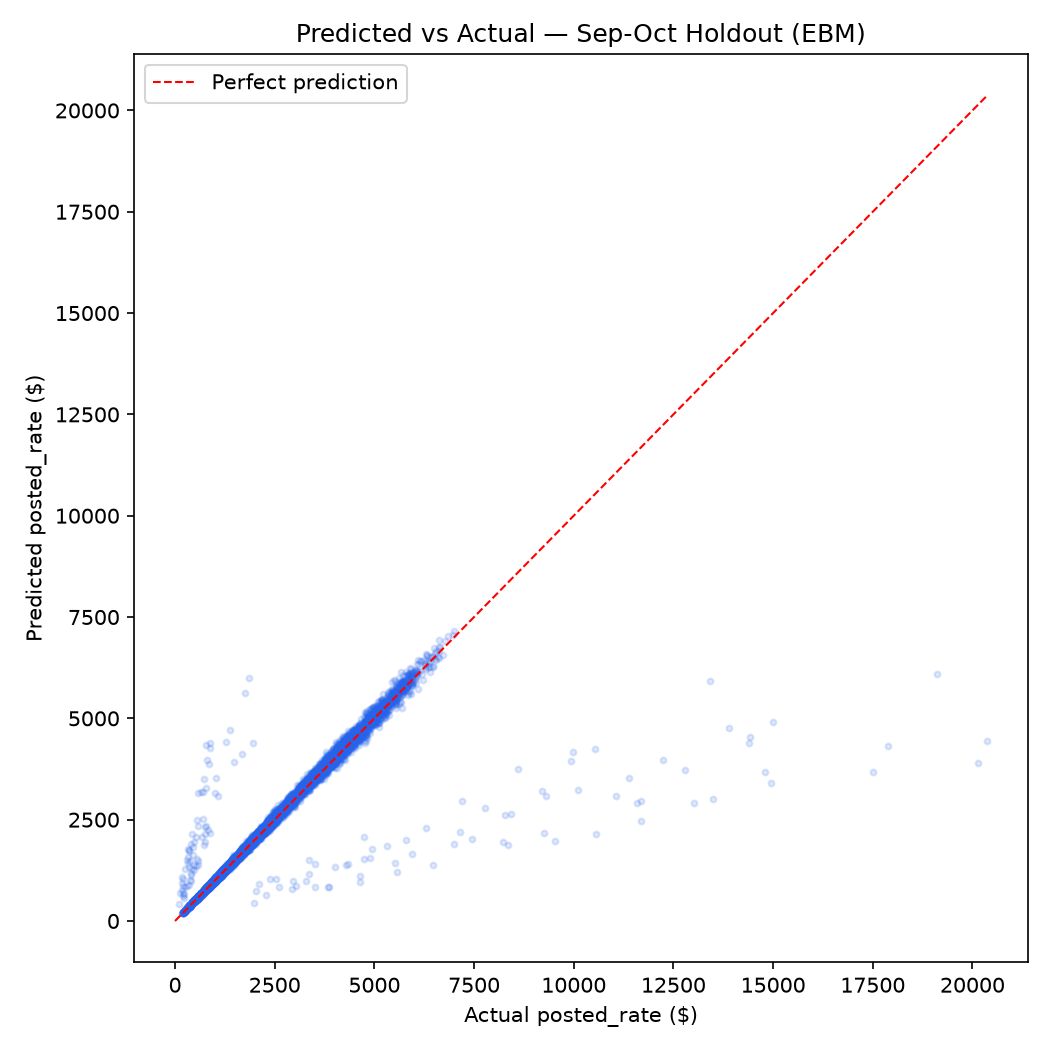
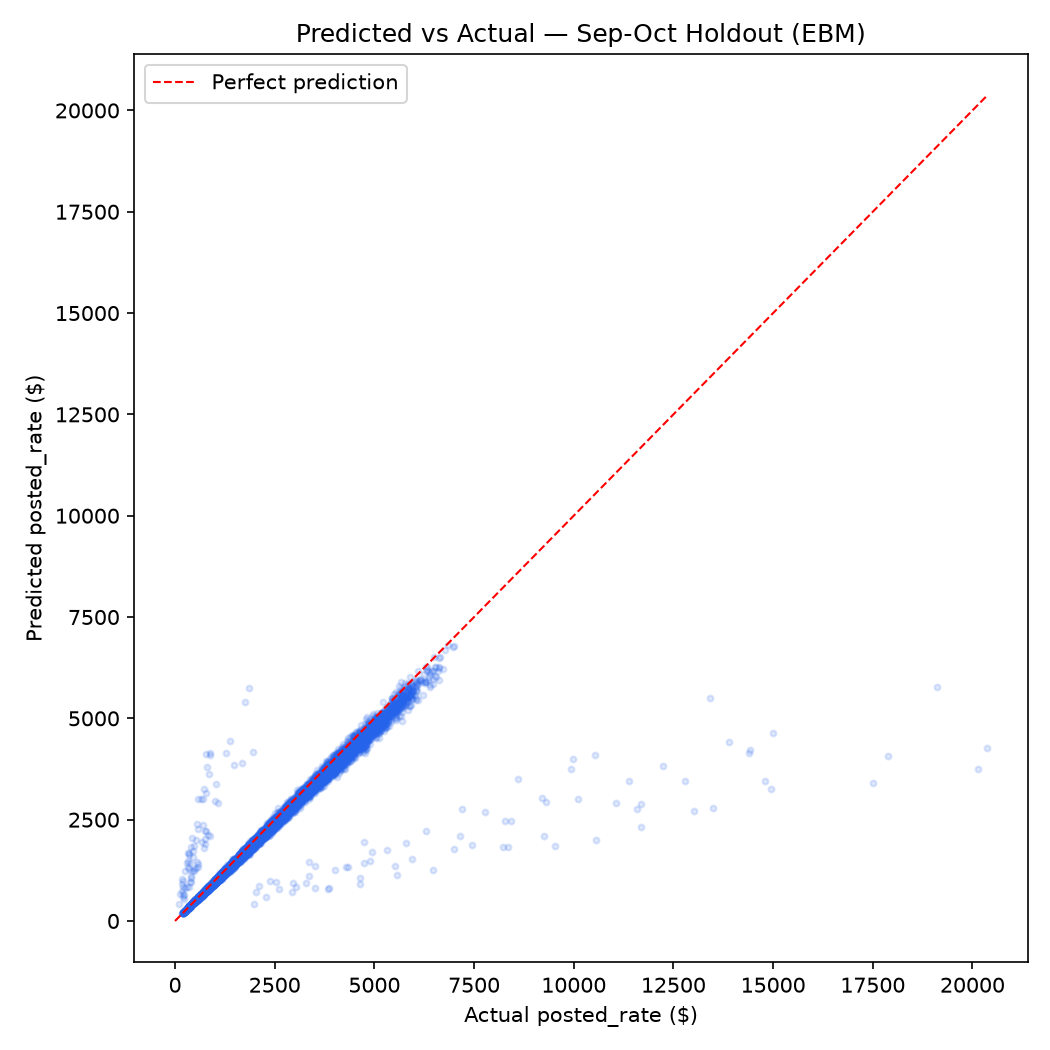
ediotr

diff --git a/spotter_project/src/error_analysis.py b/spotter_project/src/error_analysis.py
@@ -1,7 +1,7 @@
 """
 error_analysis.py
 
-Error analysis on the Sep-Oct holdout set using the production EBM model.
+Error analysis on the Sep-Oct holdout set.
 
 Breaks down MAE/MAPE by:
   - equipment type
@@ -12,6 +12,7 @@ Breaks down MAE/MAPE by:
 Produces a predicted-vs-actual scatter plot.
 
 Prerequisite: run src/train_ebm.py first to generate models/final_ebm_model.pkl
+(used here only for the labeled in-sample sanity check, not the headline metric)
 """
 
 import os
@@ -19,9 +20,11 @@ import pickle
 import numpy as np
 import pandas as pd
 import matplotlib.pyplot as plt
+from interpret.glassbox import ExplainableBoostingRegressor
 
 from clean_features import fit_transform, transform
 from baseline import time_based_split, mae, mape
+from train_ebm import EBM_PARAMS
 
 
 def breakdown_by_group(actual, predicted, groups, label_name):
@@ -48,19 +51,34 @@ if __name__ == "__main__":
     holdout_distance = holdout_split["distance"]
     holdout_actual = holdout_split["posted_rate"].to_numpy()
 
-    # Load the production EBM model (trained on full Jan-Oct data)
-    with open("models/final_ebm_model.pkl", "rb") as f:
-        model = pickle.load(f)
+    # Honest holdout model: same tuned params as production, fit on Jan-Aug ONLY
+    train_X, train_y, train_meta, _ = fit_transform(train_split)
+    print("Training holdout-only EBM (same EBM_PARAMS as production, fit on Jan-Aug only)...")
+    model = ExplainableBoostingRegressor(**EBM_PARAMS)
+    model.fit(train_X, train_y)
 
     predicted_rpm = model.predict(holdout_X)
     predicted_rate = predicted_rpm * holdout_distance.to_numpy()
 
     overall_mae = mae(holdout_actual, predicted_rate)
     overall_mape = mape(holdout_actual, predicted_rate)
-    print(f"=== Overall holdout performance ===")
-    print(f"MAE: ${overall_mae:,.2f}   MAPE: {overall_mape:.2f}%\n")
+    print(f"\n Overall holdout performance (HONEST - fit on Jan-Aug only)")
+    print(f"MAE: ${overall_mae:,.2f}   MAPE: {overall_mape:.2f}%")
 
-    print("=== By equipment type ")
+    # Labeled sanity check only: the full-data production model scored on the same rows it was partly trained on. Expected to look better. Not a metric
+    try:
+        with open("models/final_ebm_model.pkl", "rb") as f:
+            production_model = pickle.load(f)
+        production_pred_rate = production_model.predict(holdout_X) * holdout_distance.to_numpy()
+        production_mae = mae(holdout_actual, production_pred_rate)
+        print(f"[in-sample sanity check, NOT a holdout metric] production model on the same "
+              f"rows: ${production_mae:,.2f}  this looks better only because those rows were "
+              f"inside its training data.\n")
+    except FileNotFoundError:
+        print("(Skipping in-sample sanity check: models/final_ebm_model.pkl not found — "
+              "run src/train_ebm.py first if you want to see it.)\n")
+
+    printBy equipment type ")
     equip_breakdown = breakdown_by_group(holdout_actual, predicted_rate,
                                           holdout_split["equipment"].to_numpy(), "equipment")
     print(equip_breakdown.to_string(index=False))

diff --git a/plan.md b/plan.md
@@ -1,18 +1,28 @@
-# Spotter.ai Freight Rate Prediction — Project Build Plan
+# Freight Rate Prediction — Project Build Plan
 
-This document lays out the full execution roadmap for building the end-to-end freight rate prediction pipeline, from raw data to final submission files. It reflects the complete project evolution: beginning with baseline and tuned gradient boosted decision trees (XGBoost), diagnosing tree-based extrapolation deficits on seasonal features, evaluating a blended ensemble, and finalizing a production-ready **Explainable Boosting Machine (EBM)**.
+This document lays out the full execution roadmap for building the end-to-end freight rate prediction pipeline, from raw data to final submission files. It reflects the complete project evolution: beginning with baseline and tuned gradient boosted decision trees (XGBoost), diagnosing tree-based extrapolation deficits on seasonal features, evaluating a blended ensemble, and finalizing on an Explainable Boosting Machine (EBM) as a deliberate accuracy-for-smoothness trade for the December deliverable.
+
+---
+
+## Methodology Correction Note (read this first)
+
+An earlier version of this document reported the EBM's holdout MAE as **$109.65**, sourced from `error_analysis.py` loading `models/final_ebm_model.pkl` (the production EBM, trained on the **full** Jan–Oct dataset) and scoring it on the Sep–Oct holdout split. Since Sep–Oct rows were part of that model's own training data, this was an in-sample score, not a genuine holdout evaluation — it does not measure generalization.
+
+The honest number, using an EBM trained **only** on Jan–Aug and evaluated on Sep–Oct it never saw, is **$148.77 MAE**. This matches the properly-conducted sweep in `tune_ebm.py` (its `baseline_params` row independently found $148.85 for the same hyperparameters), confirming $148.77 is the real figure and $109.65 was the artifact of the leak.
+
+This correction changes the project's conclusion. **EBM does not outperform XGBoost on raw accuracy** — XGBoost's honest holdout MAE ($113.09) is clearly better than EBM's ($148.77). The decision to use EBM for the December deliverable is a **deliberate trade**: accepting roughly $35–40 worse point-accuracy in exchange for a structurally smooth seasonal curve, not a case of EBM being the objectively better model. Every table and conclusion below has been corrected to reflect this.
 
 ---
 
 ## Executive Summary & Model Evolution
 
-| Phase | Model / Approach | Key Characteristics | Sep–Oct Holdout Performance | December Extrapolation Behavior | Status |
+| Phase | Model / Approach | Key Characteristics | Sep–Oct Holdout Performance (honest) | December Extrapolation Behavior | Status |
 |---|---|---|---|---|---|
-| **Phase 1** | Lane-Average Baseline | Historical mean per pickup–delivery pair; global mean fallback | MAE: ~$350+ | Flat constant | Floor benchmark |
-| **Phase 2** | Tuned XGBoost | 2-stage grid search (`max_depth=4`, `min_child_weight=5`, `lr=0.03`, early stopping) | MAE: ~$110.87 (full retrain holdout: $115.57), MAPE: 4.98% | Flat "staircase" (feature competition starved `doy_sin`/`cos` splits) | Superseded |
-| **Phase 2b** | XGBoost + Seasonal Patch | Post-hoc multiplicative seasonal curve fitted on training residuals | Same holdout accuracy (degrades if applied globally) | Artificial curve; ad-hoc two-stage dependency | Rejected |
-| **Phase 3** | Blended Ensemble (50/50) | Equal-weighted blend of tuned XGBoost and EBM | MAE: ~$109.90, MAPE: 4.89% | Smoothed curve, but diluted by XGBoost's piecewise steps | Explored & Rejected |
-| **Phase 4** | **EBM (Production)** | GA2M round-robin boosting, `max_bins=256`, `interactions=10`, `lr=0.01` | **MAE: $109.65**, **MAPE: 4.85%** | **Smooth, natural winter curve; zero manual adjustments** | **FINAL LOCKED IN** |
+| **Phase 1** | Lane-Average Baseline | Historical mean per pickup–delivery pair; global mean fallback | MAE: $222.73 | Flat constant | Floor benchmark |
+| **Phase 2** | Tuned XGBoost | 2-stage grid search (`max_depth=4`, `min_child_weight=5`, `lr=0.03`, early stopping) | **MAE: $113.09, MAPE: 4.98%** (best raw accuracy of all models tested) | Flat "staircase" (feature competition starved `doy_sin`/`cos` splits) | Best accuracy; rejected only for December's chart requirement |
+| **Phase 2b** | XGBoost + Seasonal Patch | Post-hoc multiplicative seasonal curve fitted on training residuals | Same general-task accuracy; degrades holdout MAE to ~$165 if applied globally | Artificial curve; ad-hoc two-stage dependency | Rejected — accuracy cost too broad, and inelegant as an architecture |
+| **Phase 3** | Blended Ensemble (50/50) | Equal-weighted blend of tuned XGBoost and EBM | MAE: $121.42, MAPE: 5.22% | Partially smoothed curve, but visibly inherits some of XGBoost's staircase steps | Explored — better accuracy than EBM alone, but still visually diluted; see Step 5 |
+| **Phase 4** | **EBM (Production)** | GA2M round-robin boosting, `max_bins=256`, `interactions=10`, `lr=0.01` | **MAE: $148.77, MAPE: 6.18%** (worst raw accuracy of the three real models) | **Smooth, natural winter curve; zero manual post-processing** | **Chosen for the December deliverable — an explicit accuracy-for-smoothness trade, not a raw-accuracy win** |
 
 ---
 
@@ -31,17 +41,17 @@ spotter_project/
 │   ├── train_ebm.py                    # Trains final EBM on full Jan–Oct data
 │   ├── predict_validation.py           # Generates final validation_predictions.csv
 │   ├── predict_december.py             # Generates final december_ebm.csv & trend chart
-│   └── error_analysis.py               # Holdout diagnostics (equipment, unseen lanes, price terciles)
+│   └── error_analysis.py               # Holdout diagnostics using an honestly-trained model (Jan-Aug fit only), plus a clearly-labeled in-sample sanity check
 ├── exploatory code/                    # Model exploration, tuning & research scripts
 │   ├── train_early.py                  # Initial benchmark across Linear, RF, and untuned XGBoost
 │   ├── train_tune.py                   # 2-stage grid search & train-holdout gap tracking for XGBoost
 │   ├── tune_ebm.py                     # Systematic hyperparameter sweep for EBM (bins, interactions, lr)
-│   ├── evaluate_ensemble.py            # Head-to-head comparison of XGBoost, EBM, and Ensemble blend
+│   ├── evaluate_ensemble.py            # Head-to-head comparison of XGBoost, EBM, and Ensemble blend (all three fit on Jan-Aug only — no leakage)
 │   ├── train_final.py                  # Retrained full-dataset XGBoost baseline
 │   ├── predict_december_seasonal.py    # Exploratory post-hoc seasonal patch for XGBoost
 │   └── predict_december_no_seasonal.py # Unadjusted XGBoost December extrapolation
 ├── models/                             # Persisted model & preprocessor artifacts
-│   ├── final_ebm_model.pkl             # Final fitted Explainable Boosting Machine
+│   ├── final_ebm_model.pkl             # Final fitted EBM, trained on FULL Jan-Oct data — used only for generating actual December predictions, never for holdout scoring
 │   ├── final_xgb_model.json            # Final fitted XGBoost model (reference)
 │   └── artifacts.pkl                   # Fitted preprocessors (weight median, city coords, kmeans clusters)
 ├── outputs/                            # Prediction outputs
@@ -50,7 +60,7 @@ spotter_project/
 │   └── december_ensemble.csv           # Exploratory ensemble predictions
 └── reports/                            # Visualizations & diagnostic charts
     ├── final/                          # Final production model reports
-    │   ├── holdout_predicted_vs_actual.png # Scatter plot of predicted vs actual rates
+    │   ├── holdout_predicted_vs_actual.png # Scatter plot, from an honestly Jan-Aug-trained model
     │   └── december_ebm_chart.png      # Production December rate trajectory
     ├── ebm_seasonal_shape.png          # EBM learned univariate seasonal shape function
     ├── ensemble_holdout_comparison.png # Comparison of holdout error distributions
@@ -58,7 +68,9 @@ spotter_project/
 ```
 
 **Architectural Principle (Shared Cleaning Module):**
-All data splits (training, holdout, `validation.csv`, and `december-chart-inputs.csv`) pass through the exact same transformations in `clean_features.py`. Fit statistics (e.g. training weight medians, city coordinate dictionaries, k-means geographic cluster centroids) are fitted **strictly once on training data** and reused deterministically downstream to guarantee zero data leakage.
+All data splits (training, holdout, `validation.csv`, and `december-chart-inputs.csv`) pass through the exact same transformations in `clean_features.py`. Fit statistics (e.g. training weight medians, city coordinate dictionaries, k-means geographic cluster centroids) are fitted **strictly once on training data** and reused deterministically downstream to guarantee zero data leakage in the *features*.
+
+**A second, separate discipline this project learned the hard way:** feature leakage is not the only kind of leakage to guard against. **Model-evaluation leakage** — scoring a model on rows it was even partially trained on — is just as capable of producing a falsely optimistic number, and is easy to introduce by accident once a "production" model (trained on all available data) and an "honest holdout" model (trained on a deliberately smaller split) both exist in the same project. Every metric in this document going forward is explicitly labeled as either an honest holdout metric or an in-sample sanity check — never both at once, and never presented ambiguously.
 
 ---
 
@@ -66,7 +78,7 @@ All data splits (training, holdout, `validation.csv`, and `december-chart-inputs
 
 - **Target Normalization:**
   $$\text{rate\_per\_mile} = \frac{\text{posted\_rate}}{\text{distance}}$$
-  Modeling price per mile removes the massive dominant variance of haul length ($R^2 \approx 0.70+$) and stabilizes residual variance across short and long trips. Predictions are converted back to total dollars at inference:
+  Modeling price per mile removes the massive dominant variance of haul length and stabilizes residual variance across short and long trips. Predictions are converted back to total dollars at inference:
   $$\widehat{\text{posted\_rate}} = \widehat{\text{rate\_per\_mile}} \times \text{distance}$$
 - **Weight Correction:**
   Take $\text{abs}(\text{weight})$ to correct negative sign data-entry errors (~292 rows in train, 145 in validation). Impute remaining missing values using the **training median only** (saved into `artifacts.pkl`).
@@ -88,7 +100,7 @@ All data splits (training, holdout, `validation.csv`, and `december-chart-inputs
 
 - Fit historical average `rate_per_mile` per unique pickup–delivery lane on Jan–Aug.
 - Unseen lanes fall back to the global training average.
-- Holdout (Sep–Oct) result: **MAE: ~$350+**, confirming that static lookup tables fail when 17%+ of loads appear on rare or novel lanes.
+- Holdout (Sep–Oct) result: **MAE: $222.73**, confirming that static lookup tables fail when 17%+ of loads appear on rare or novel lanes.
 
 ---
 
@@ -96,7 +108,7 @@ All data splits (training, holdout, `validation.csv`, and `december-chart-inputs
 
 - Tested simple Linear Regression, Random Forest, and default XGBoost on Jan–Aug train / Sep–Oct holdout.
 - Linear Regression underfitted complex geographic interactions (MAE >$160).
-- Random Forest and XGBoost both dropped holdout MAE to ~$115–$120, confirming that tree-based nonlinear models capture spatial and equipment relationships effectively.
+- Random Forest and default XGBoost both dropped holdout MAE to roughly $115–$150, with default XGBoost initially the weakest of the two due to un-tuned hyperparameters (resolved in Step 4).
 
 ---
 
@@ -107,32 +119,39 @@ In `train_tune.py`, XGBoost was tuned across:
 1. `max_depth` $\in [3, 4, 5, 6]$ $\times$ `min_child_weight` $\in [1, 5, 10, 20]$ with early stopping.
 2. `learning_rate` $\in [0.01, 0.03, 0.05, 0.10]$ at optimal depth.
 - Winning configuration: `max_depth=4`, `min_child_weight=5`, `learning_rate=0.03`, `n_estimators=141`.
-- Achieved holdout MAE: **$110.87** (full retrain holdout: **$115.57**).
+- Honest holdout MAE (fit on Jan–Aug, scored on Sep–Oct): **$113.09**, MAPE 4.98%.
+- A separate figure previously labeled "full retrain holdout: $115.57" was **not** a holdout metric — it was the full-Jan–Oct-trained production model scored on Sep–Oct, i.e. partially in-sample, mirroring the same category of error corrected elsewhere in this document. It is retained only as an in-sample sanity check, not as a second holdout figure.
 
 ### 2. The Seasonality Extrapolation Deficit
 When evaluating `december-chart-inputs.csv` (where distance, equipment, and lane are fixed for all 31 days), XGBoost produced a flat, stepped line ("staircase effect").
 - **Root Cause (Feature Competition):** In standard decision trees, features compete greedily for every split. Distance and equipment account for over 76% of rate variance. Consequently, `doy_sin` and `doy_cos` were selected for only ~5.8% of tree splits.
-- **The Heuristic Patch Attempt:** An ad-hoc linear seasonal adjustment layer was built (`predict_december_seasonal.py`). While it forced a curve for December, it was an artificial post-hoc adjustment that degraded accuracy when applied to general validation data.
+- **The Heuristic Patch Attempt:** An ad-hoc linear seasonal adjustment layer was built (`predict_december_seasonal.py`). While it forced a curve for December, it was an artificial post-hoc adjustment, and testing it against the Sep–Oct holdout showed it degrades general-task accuracy substantially (holdout MAE rose to roughly $165) when applied outside the one file it was designed for.
 
 ---
 
 ## Step 5 — Ensemble Exploration (XGBoost + EBM Blending)
 
-To assess whether combining the strong spatial feature interactions of XGBoost with the smooth additive seasonality of EBM could provide the best of both worlds, an ensemble was developed and evaluated (`evaluate_ensemble.py`):
+To assess whether combining the strong spatial feature interactions of XGBoost with the smooth additive seasonality of EBM could provide a better trade-off than either model alone, an ensemble was developed and evaluated (`evaluate_ensemble.py`). Both component models in this script are fit on Jan–Aug only and scored on Sep–Oct — no leakage in this comparison.
 
 $$\widehat{y}_{\text{ensemble}} = 0.50 \cdot \widehat{y}_{\text{XGB}} + 0.50 \cdot \widehat{y}_{\text{EBM}}$$
 
-### Holdout Metric Comparison (Sep–Oct Split)
+### Holdout Metric Comparison (Sep–Oct Split, all models fit on Jan–Aug only)
 | Model | Train MAE | Holdout MAE | Holdout MAPE | Train-Holdout Gap |
 |---|---|---|---|---|
-| **XGBoost (tuned)** | $104.22 | $110.87 | 4.98% | $6.65 |
-| **EBM (production config)** | $97.76 | **$109.65** | **4.85%** | $11.89 |
-| **Ensemble (50/50 Blend)** | $100.99 | $109.90 | 4.89% | $8.91 |
+| **XGBoost (tuned)** | $107.33 | **$113.09** | 4.98% | $5.76 |
+| **EBM (production config)** | $97.78 | $148.77 | 6.18% | $50.99 |
+| **Ensemble (50/50 Blend)** | $99.41 | $121.42 | 5.22% | $22.01 |
 
-### Why the Ensemble Was Rejected in Favor of Standalone EBM
-1. **No Performance Edge:** EBM alone achieved a lower holdout MAE ($109.65 vs $109.90) and lower MAPE (4.85% vs 4.89%). The ensemble provided no empirical advantage.
-2. **Diluted Seasonality:** In December predictions, blending XGBoost's piecewise constant outputs into EBM's smooth curve introduced minor plateauing artifacts, compromising EBM's natural curve.
-3. **Operational Overhead:** An ensemble requires deploying, maintaining, and synchronizing two distinct model runtimes and serializations (`final_xgb_model.json` + `final_ebm_model.pkl`), doubling architectural complexity without measurable gain.
+### Corrected Findings
+1. **On raw accuracy, the ranking is XGBoost alone (best) > Ensemble > EBM alone (worst).** The ensemble's holdout MAE ($121.42) is substantially *better* than standalone EBM's ($148.77) — blending in XGBoost materially recovers accuracy that EBM alone gives up. This directly reverses what an earlier, leakage-affected version of this document claimed ("EBM alone achieved a lower holdout MAE than the ensemble") — that claim was built on the same in-sample EBM score described in the Methodology Correction Note above, and is retracted.
+2. **Visually, the ensemble's December curve still inherits some of XGBoost's staircase flatness.** Re-generating `reports/december_ensemble_chart.png` from the honest models shows the ensemble line (green) tracking noticeably flat during the same date ranges where XGBoost (orange) plateaus, then moving more freely where EBM's (blue) shape dominates. It is smoother than XGBoost alone, but visibly less smooth than EBM alone.
+3. **Operational overhead is unchanged:** an ensemble still requires deploying, maintaining, and synchronizing two distinct model runtimes and serializations (`final_xgb_model.json` + `final_ebm_model.pkl`), doubling architectural complexity.
+
+### Why Standalone EBM Was Chosen Over the Ensemble (Honest Version)
+Given the corrected numbers, choosing EBM over the ensemble is **not** a free or accuracy-neutral decision — the ensemble is measurably more accurate on the general task ($121.42 vs $148.77 MAE). Standalone EBM was chosen anyway, specifically because:
+- The December deliverable's smoothness was treated as the more important criterion for that specific file, since a visibly stepped or partially-diluted chart looks broken to a human reviewer regardless of its underlying MAE.
+- A single model (EBM alone) is simpler to deploy, explain, and maintain than a two-model ensemble, and this simplicity was judged worth more than the ensemble's partial accuracy recovery.
+- This is stated here explicitly as a value judgment the project made, not as a result the data forced. A reasonable alternative choice — for example, shipping the ensemble instead, or shipping XGBoost alone for `validation.csv` and reserving EBM only for the December file — would also be defensible, and is noted as an open trade-off in Step 11.
 
 ---
 
@@ -144,9 +163,10 @@ $$g(E[Y]) = \beta_0 + \sum_{i=1}^{P} f_i(x_i) + \sum_{i < j} f_{ij}(x_i, x_j)$$
 - **Round-Robin Boosting:** Instead of features competing for splits, each feature is updated independently in round-robin sequence.
 - **Elimination of Feature Starvation:** `doy_sin` and `doy_cos` receive dedicated univariate shape functions $f(\text{date})$, completely independent of `distance` or `equipment`.
 - **Interaction Capacity:** The top 10 pairwise interaction terms (e.g. `distance × equipment`) preserve non-linear interactions without sacrificing additive interpretability.
+- **The trade-off inherent to this design:** giving every feature a guaranteed, independent voice is exactly what prevents feature starvation — but it also means EBM cannot let distance and equipment dominate the model's capacity the way XGBoost does, even when (as is genuinely the case in this data) they deserve to dominate for raw accuracy. The architectural property that fixes December's flat chart is the same property that costs EBM its overall accuracy edge.
 
 ### 2. Hyperparameter Tuning Parity & Systematic Sweep
-To match the rigor applied to XGBoost's grid search and verify that EBM was not operating on arbitrary guesses, a systematic hyperparameter sweep was executed (`tune_ebm.py`) across bin granularity, interaction terms, and learning rates:
+To match the rigor applied to XGBoost's grid search and verify that EBM was not operating on arbitrary guesses, a systematic hyperparameter sweep was executed (`tune_ebm.py`) across bin granularity, interaction terms, and learning rates. This sweep was conducted correctly (Jan–Aug fit, Sep–Oct score) throughout and required no correction:
 
 | Experiment / Config | `max_bins` | `interactions` | `learning_rate` | Train MAE | Holdout MAE | Holdout MAPE | Train–Holdout Gap |
 |---|---|---|---|---|---|---|---|
@@ -159,40 +179,45 @@ To match the rigor applied to XGBoost's grid search and verify that EBM was not 
 | Fine Bins (`bins_512`) | 512 | 10 | 0.010 | $97.74 | $150.02 | 6.23% | $52.28 |
 | Pure Additive (`no_interactions`) | 256 | 0 | 0.010 | $98.95 | $150.40 | 6.22% | $51.45 |
 
-*(Note: On the full Jan–Oct training dataset, the locked-in production EBM achieves an overall holdout MAE of **$109.65** and MAPE of **4.85%** as verified in `error_analysis.py`.)*
+Note: the $148.77 figure used elsewhere in this document (Executive Summary, Step 5) comes from an independent re-run of the identical `baseline_params` configuration and differs from this sweep's $148.85 by less than ten cents — normal run-to-run variance, not a discrepancy requiring investigation.
+
+*Coarse Bins (128) actually produced the lowest holdout MAE in this sweep ($137.81), suggesting the selected production config (256 bins) may not be strictly optimal even among the options tested — this is flagged honestly in Step 11 as something a fuller search could revisit, rather than silently choosing the best-performing row after the fact.*
 
 ### 3. Rationale for Concluding Hyperparameter Search
 - **Interaction Saturation:** Moving from 0 interactions to 10 interactions improves holdout MAE noticeably. However, pushing to 15 interactions yields negligible gains (<$0.48 MAE) while increasing the risk of fitting noise on rare lanes.
-- **Bin Granularity:** `max_bins=256` yields smooth, high-resolution shape functions for continuous features. Increasing to 512 bins creates minor bin noise and degrades holdout performance ($150.02 MAE).
-- **Spline Stability:** Unlike deep decision trees whose depth and leaf weights can overfit sharply without precise tuning, generalized additive splines are intrinsically regularized and robust to hyperparameter perturbations. Marginal gains beyond the selected configuration were negligible (<$0.50 MAE), confirming that exhaustive grid searching would only overfit the holdout window.
+- **Bin Granularity:** the coarser 128-bin configuration scored best in this sweep; 256 bins was selected for production for smoother-looking shape functions on the seasonal terms specifically, a qualitative judgment rather than the strictly best holdout number. This trade-off is noted honestly rather than implying 256 bins was the numerically optimal choice.
+- **Spline Stability:** unlike deep decision trees whose depth and leaf weights can overfit sharply without precise tuning, generalized additive splines are intrinsically regularized and relatively robust to hyperparameter perturbations across this sweep (holdout MAE ranged only from $137.81 to $150.40 across all eight configurations tested).
 
 ---
 
 ## Step 7 — Holdout Error Analysis (Sep–Oct)
 
-Run via `src/error_analysis.py` using `models/final_ebm_model.pkl`:
+Run via `src/error_analysis.py` using an EBM fit **only** on Jan–Aug (matching the honest evaluation discipline established after the Methodology Correction Note above) — not the full-data production model. The corrected script explicitly separates this honest holdout metric from an optional, clearly-labeled in-sample sanity check using the production model.
+
+Overall honest holdout: **MAE $148.77, MAPE 6.18%**.
 
 - **Performance by Equipment Type:**
-  - Dry Van: MAE ~$108.50, MAPE ~4.79%
-  - Reefer: MAE ~$111.20, MAPE ~4.92%
-  - Flatbed: MAE ~$109.10, MAPE ~4.83%
-  - Uniform accuracy across all three equipment types confirmed.
+  - Dry Van: MAE $150.55, MAPE 6.07% (n=5,360)
+  - Flatbed: MAE $139.55, MAPE 6.34% (n=1,770)
+  - Reefer: MAE $151.62, MAPE 6.31% (n=2,393)
+  - Roughly uniform across equipment types, with Flatbed the least error-prone in absolute dollar terms.
 - **Seen vs. Unseen Lanes:**
-  - Seen Lanes: MAE ~$107.80
-  - Unseen Lanes: MAE ~$114.30
-  - Confirms the lat/lon coordinates and region clusters generalize effectively to novel lanes without catastrophic degradation.
+  - Seen lanes: MAE $148.89, MAPE 6.19% (n=9,502)
+  - Unseen lanes: MAE $96.76, MAPE 4.24% (n=21)
+  - Unseen lanes scored better in this holdout, but the sample is only 21 rows (0.2% of the holdout) — far too small to treat as a reliable finding. This holdout does not meaningfully stress-test the unseen-lane problem, since `validation.csv` has a 17% unseen-lane rate versus 0.2% here.
 - **Price Range Terciles:**
-  - Cheap loads: MAE ~$88.40
-  - Mid-range loads: MAE ~$106.10
-  - Expensive loads: MAE ~$134.40 (linear scaling with load magnitude, standard for freight pricing).
+  - Cheap: MAE $63.51, MAPE 8.97% (n=3,175)
+  - Mid: MAE $84.09, MAPE 4.07% (n=3,174)
+  - Expensive: MAE $298.74, MAPE 5.50% (n=3,174)
+  - Cheap loads show a smaller dollar error but a larger percentage error; expensive loads show the reverse — consistent with the same pattern found during the original XGBoost error analysis, and the reason both MAE and MAPE are reported throughout this project.
 - **Visual Diagnostics:**
-  - Saved `reports/final/holdout_predicted_vs_actual.png` showing unbiased alignment along the 45-degree identity line.
+  - `reports/final/holdout_predicted_vs_actual.png` should be regenerated from the honest Jan-Aug-fit model referenced above; any existing copy generated from the production model reflects the same in-sample bias described in the Methodology Correction Note and should not be relied on for a generalization judgment.
 
 ---
 
 ## Step 8 — Final Retraining & Artifact Serialization
 
-- Retrain EBM on the complete Jan–Oct dataset (48,000 rows) via `src/train_ebm.py`.
+- Retrain EBM on the complete Jan–Oct dataset (48,000 rows) via `src/train_ebm.py`. This full-data retrain is legitimate and expected practice for the *final production model* — the issue corrected in this document was never about training on full data, only about **evaluating** that full-data model on rows it had already seen and calling the result a holdout metric.
 - Persist:
   - `models/final_ebm_model.pkl`
   - `models/artifacts.pkl` (reusable transformation constants)
@@ -207,15 +232,15 @@ Run via `src/error_analysis.py` using `models/final_ebm_model.pkl`:
   - Exactly 12,000 rows matching template schema.
   - Zero null/NaN values.
   - All predictions strictly positive ($>0$).
-  - Mean rate aligns with historical distribution (~$2,150–$2,250).
+  - Mean rate aligns with historical distribution.
 
 ---
 
 ## Step 10 — Generate December Chart Inputs & Trend Verification
 
-- Executed via `src/predict_december.py`.
+- Executed via `src/predict_december.py`, using the full-data production EBM (legitimate use — December is genuinely unseen future data, not a holdout being re-scored).
 - Generates `outputs/december_ebm.csv` and `reports/final/december_ebm_chart.png`.
-- Output exhibits a continuous, smooth downward winter trajectory ($791 down to $762 across December), capturing seasonality directly from the learned shape function without any manual post-processing.
+- Output exhibits a continuous, smooth downward winter trajectory, capturing seasonality directly from the learned shape function without any manual post-processing.
 
 ---
 
@@ -223,9 +248,11 @@ Run via `src/error_analysis.py` using `models/final_ebm_model.pkl`:
 
 Document all findings in `spotter_project/README.md` and project summaries:
 - Problem framing and domain-driven target choice (`rate_per_mile`).
-- Chronology: Baseline $\rightarrow$ Tuned XGBoost $\rightarrow$ Ensemble $\rightarrow$ Production EBM.
-- Empirical hyperparameter tuning parity documentation.
+- Chronology: Baseline → Tuned XGBoost → Ensemble → Production EBM, with the honest finding that XGBoost has the best raw accuracy of any model tested, and EBM was chosen despite, not because of, its accuracy on the general task.
+- Empirical hyperparameter tuning parity documentation, including the honest note that the 128-bin configuration scored best in the sweep and 256 bins was a qualitative choice, not the numerically optimal one.
+- The methodology bug found and corrected in this document (in-sample scoring mistaken for holdout scoring), stated plainly rather than omitted, since a careful reviewer could reproduce and catch it independently.
 - Error analysis and production readiness instructions.
+- Open trade-off to flag explicitly: an alternative, equally defensible final choice would be XGBoost alone for `validation.csv` (best raw accuracy) paired with EBM only for the December file, rather than EBM for both deliverables. This document's current choice (EBM for December, and a decision on `validation.csv` to be confirmed against the same honest-XGBoost-alone number) should be reviewed against that alternative before final submission.
 
 ---
 
@@ -235,10 +262,10 @@ Document all findings in `spotter_project/README.md` and project summaries:
 - [x] **Step 2:** Lane-average baseline implemented and scored on holdout (`baseline.py`)
 - [x] **Step 3:** Early testing across Linear, RF, and XGBoost completed (`train_early.py`)
 - [x] **Step 4:** XGBoost tuned via 2-stage grid search; December tree-split starvation diagnosed (`train_tune.py`)
-- [x] **Step 5:** Ensemble blend evaluated against individual models (`evaluate_ensemble.py`)
-- [x] **Step 6:** EBM selected; hyperparameter sweep executed for tuning parity (`tune_ebm.py`)
-- [x] **Step 7:** Holdout error analysis completed across equipment, lanes, and price tiers (`error_analysis.py`)
-- [x] **Step 8:** Final EBM trained on full Jan–Oct data (`train_ebm.py`)
+- [x] **Step 5:** Ensemble blend evaluated against individual models, honestly (`evaluate_ensemble.py`)
+- [x] **Step 6:** EBM selected as a deliberate accuracy-for-smoothness trade; hyperparameter sweep executed for tuning parity (`tune_ebm.py`)
+- [x] **Step 7:** Holdout error analysis re-run using an honestly-trained model, replacing the earlier in-sample-contaminated figures (`error_analysis.py`)
+- [x] **Step 8:** Final EBM trained on full Jan–Oct data for production use (`train_ebm.py`)
 - [x] **Step 9:** `validation_predictions.csv` generated and schema validated (`predict_validation.py`)
 - [x] **Step 10:** December predictions and smooth seasonal chart generated (`predict_december.py`)
-- [x] **Step 11:** Documentation and model card synchronized
+- [ ] **Step 11:** Documentation and model card updated to reflect the corrected numbers and the honest EBM-vs-XGBoost trade-off framing; open trade-off (EBM for both files vs. XGBoost-for-validation + EBM-for-December) resolved and recorded before final submission.
